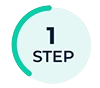
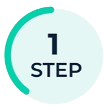
add content to how we works

diff --git a/components/shared/landing-components/HowWeWork.tsx b/components/shared/landing-components/HowWeWork.tsx
@@ -1,22 +1,32 @@
+import { steps } from "@/lib/constants";
+import { cn } from "@/lib/utils";
+import clsx from "clsx";
 import Image from "next/image";
 import React from "react";
 
 const HowWeWork = () => {
   return (
     <section className="container">
-      <h1 className="h1-bold before-paw relative">Як Ми Працюємо</h1>
-      <ul className="flex-between">
-        <li className="bg-white p-6 shadow-lg ">
-          <h4>Замовлення</h4>
-          <p className="">Заповніть всі поля про ваше замовлення </p>
-        </li>
+      <h1 className="h1-bold before-paw relative mb-20">Як Ми Працюємо</h1>
+      <ul className="flex-between mb-32">
+        {steps.map((step) => {
+          return (
+            <li
+              key={step.title}
+              className={cn(
+                "light-border-2 relative w-60  rounded-3xl bg-white px-6 pb-28 pt-14 text-center shadow-lg",
+                step.additionalClasses
+              )}
+            >
+              <h4 className="h2-bold mb-6">{step.title}</h4>
+              <p className="base-semibold text-black-500">{step.content}</p>
+              <div className="absolute -bottom-8 -right-8 !h-[90px] !w-[90px]">
+                <Image src={step.imgUrl} alt="first-step" fill />
+              </div>
+            </li>
+          );
+        })}
       </ul>
-      <Image
-        src="/assets/images/step-1.png"
-        width={100}
-        height={100}
-        alt="first-step"
-      />
     </section>
   );
 };

diff --git a/lib/constants/index.ts b/lib/constants/index.ts
@@ -20,3 +20,24 @@ export const accordionQuestions = [
     content: " Yes. It adheres to the WAI-ARIA design pattern.",
   },
 ];
+
+export const steps = [
+  {
+    title: "Замовлення",
+    content: "Заповніть всі поля про ваше замовлення для звязку з нами",
+    imgUrl: "/assets/images/step-1.png",
+    additionalClasses: " ",
+  },
+  {
+    title: "Бронювання",
+    content: "Вибір дати та людини під ваші побажання, та необзідності",
+    imgUrl: "/assets/images/step-2.png",
+    additionalClasses: "translate-y-16",
+  },
+  {
+    title: "Готово",
+    content: "Відпочивайте, а ми подбаємо про ваших улюбленкців",
+    imgUrl: "/assets/images/step-3.png",
+    additionalClasses: "translate-y-36",
+  },
+];

diff --git a/components/shared/landing-components/Introduction.tsx b/components/shared/landing-components/Introduction.tsx
@@ -9,12 +9,12 @@ const Introduction = () => {
           <h1 className="mb-6  max-w-[840px] text-left font-montserrat text-5xl font-semibold">
             Найкращий сервіс для вигулу Ваших улюбленців у Києві
           </h1>
-          <p className="base-semibold mb-6 font-nunito">
+          <p className="base-semibold mb-12 font-nunito text-black-500">
             Сервіс доступний 7 днів на тиждень. <br /> Ви можете замовити
             прогулянки з собаками
           </p>
           <Button className="primary-btn">
-            <a href="#form" className="base-bold">
+            <a href="#form" className="base-bold ">
               Замовити вигул
             </a>
           </Button>

diff --git a/styles/theme.css b/styles/theme.css
@@ -96,7 +96,7 @@
   }
 
   .light-border-2 {
-    @apply border-light-700 dark:border-dark-400 !important;
+    @apply border-light-700  !important;
   }
 
   .h1-bold {
@@ -104,7 +104,7 @@
   }
 
   .h2-bold {
-    @apply text-[24px] font-bold leading-[31.2px];
+    @apply text-[24px] font-bold leading-[31.2px] tracking-tighter font-montserrat;
   }
 
   .h2-semibold {
@@ -192,7 +192,7 @@
   }
 
   .primary-btn {
-    @apply !base-bold !rounded-[26px] !bg-primary-900 hover:!bg-primary-900 shadow-lg hover:!bg-black-800;
+    @apply !base-bold !rounded-[26px] !bg-primary-900 hover:!bg-primary-900 shadow-lg hover:!bg-black-800 font-montserrat;
   }
 
   .primary-gradient {

diff --git a/tailwind.config.ts b/tailwind.config.ts
@@ -34,7 +34,12 @@ const config: Config = {
         black: { 800: "#141d34", 500: "#4d4e50" },
         dark: {},
         light: {
-          400: "#f8fafc",
+          900: "#FFFFFF",
+          800: "#F4F6F8",
+          850: "#FDFDFD",
+          700: "#DCE3F1",
+          500: "#7B8EC8",
+          400: "#858EAD",
         },
         "accent-blue": "#1DA1F2",
       },
